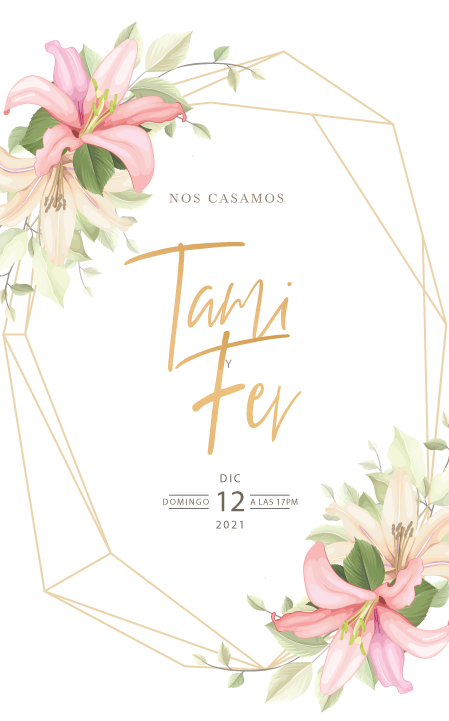
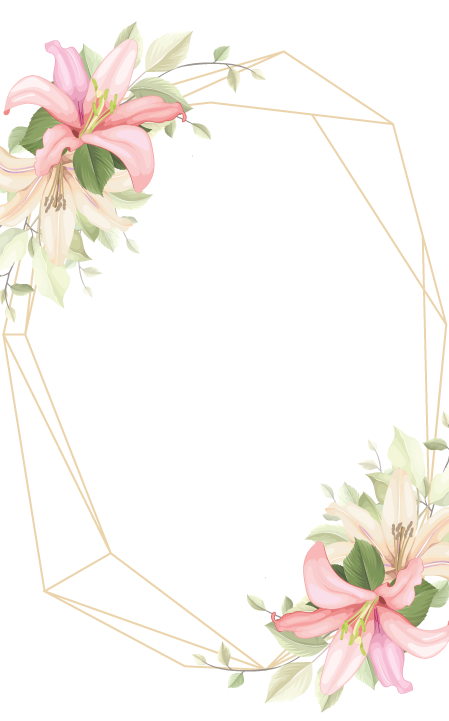
Ajustes para mobile de hero y contador

Changed region(s): [[0.2806, 0.3356, 0.6548, 0.6408], [0.3742, 0.6408, 0.6548, 0.7323], [0.5612, 0.2746, 0.5924, 0.3051]]

diff --git a/themes/wedding-theme/partials/main/main.htm b/themes/wedding-theme/partials/main/main.htm
@@ -1,6 +1,6 @@
 <section id="main-section">
     <div id="main-first-step" style="background-image: url({{ 'assets/images/backgrounds/default_bg_2.png' | theme }})">
-        <div class="justify-content-center h-100 align-items-end text-main-container p-relative d-none d-md-flex">
+        <div class="justify-content-center h-100 align-items-end text-main-container p-relative d-flex">
             <div class="name-container">
                 <div>
                     <p class="description">Nos casamos</p>
@@ -39,6 +39,35 @@
     </div>
     <div id="mobile-main-block"
          style="background-image: url({{ 'assets/images/backgrounds/seed-bg-mob.png' | theme }})">
+        <div class="name-container">
+            <div>
+                <p class="description">Nos casamos</p>
+            </div>
+            <div  class="novia-tag">
+                <h1>{{ settings.nombre_novia }}</h1>
+            </div>
+            <div class="separator-tag">
+                <p class="description">y</p>
+            </div>
+            <div class="novio-tag">
+                <h1>{{ settings.nombre_novio }}</h1>
+            </div>
+            <div class="date-box">
+                <div class="date-box-side">Domingo</div>
+                <div>
+
+                    <p>
+                        <span class="text-uppercase">{{settings.boda_date|date("M")|trans}} </span>    <br>
+                        <span class="date-box-day">{{settings.boda_date|date("d")}}</span>      <br>
+                        {{settings.boda_date|date("Y")}}    <br>
+                    </p>
+
+                </div>
+                <div class="date-box-side">
+                    17PM
+                </div>
+            </div>
+        </div>
     </div>
 </section>
 

diff --git a/themes/wedding-theme/assets/css/custom-1.css b/themes/wedding-theme/assets/css/custom-1.css
@@ -47,7 +47,7 @@
 
 html,body{
     font-family: 'Baskerville', sans-serif;
-    font-size: 18px;
+    font-size: 16px;
     color: var(--main-text);
     scroll-behavior: smooth;
     background-color: var(--bg-color);
@@ -183,13 +183,25 @@ a {
     color: #d7b7a2;
 }
 section#engagement > .container {
+    position: relative;
     height: 640px;
     background-size: cover;
     background-position: top center;
     background-repeat: no-repeat;
     border-radius: 10px;
+    display: flex;
+    align-items: center;
 }
-
+section#engagement .container.py-5.position-relative:after {
+    content: "";
+    position: absolute;
+    top: 0;
+    left: 0;
+    width: 100%;
+    height: 100%;
+    background: #0000001c;
+    border-radius: 10px;
+}
 .call-container {
     text-align: center;
     background: var(--secondary-color);
@@ -252,7 +264,6 @@ span.htext {
 }
 
 .engagementMessage {
-    margin-top: 160px;
     color: #FFF
 }
 
@@ -327,7 +338,17 @@ section#giftsSection {
     font-size: 50px;
     color: #c88e38;
 }
+@media screen and (min-width: 415px) and (max-width: 757px){
+    div#main-first-step {
 
+        background-size: cover;
+    }
+    .deco-img-box {
+        position: absolute;
+        bottom: -10px;
+        max-width: 100%;
+    }
+}
 @media screen and (max-width: 414px){
     #main-section {
         min-height: auto;
@@ -355,6 +376,7 @@ section#giftsSection {
         height: 100%;
         background-position: center center;
         background-repeat: no-repeat;
+        background-size: cover;
     }
     #coupleNames h1.text-main {
         font-size: 50px !important;

diff --git a/themes/wedding-theme/layouts/main-layout.htm b/themes/wedding-theme/layouts/main-layout.htm
@@ -49,6 +49,7 @@
 	<noscript><iframe src="https://www.googletagmanager.com/ns.html?id=GTM-NR8HP6D"
 	height="0" width="0" style="display:none;visibility:hidden"></iframe></noscript>
 	<!-- End Google Tag Manager (noscript) -->
+
 	{% page %}
 
 	{% partial 'general/footer' %}
@@ -78,7 +79,7 @@
 
 			  var nextYear = (new Date()).getFullYear() + 1;
 
-			  Tick.count.down('2021-12-12T17:00:00').onupdate = function(value) {
+			  Tick.count.down('{{ settings.boda_date ? settings.boda_date | date('Y-m-d') : '2021-12-12' }}T17:00:00').onupdate = function(value) {
 			    tick.value = value;
 			  };
 

diff --git a/themes/wedding-theme/partials/main/engagement.htm b/themes/wedding-theme/partials/main/engagement.htm
@@ -3,7 +3,7 @@
 <section id="engagement">
 	<div class="container py-5 position-relative"
          style="background-image: url({{bg_img}})">
-		<div class="row">
+		<div class="row position-relative" style="z-index: 1">
 			<div class="col-12 text-center">
 				<h1 class="text-light-theme">
 					Nuestro Compromiso
